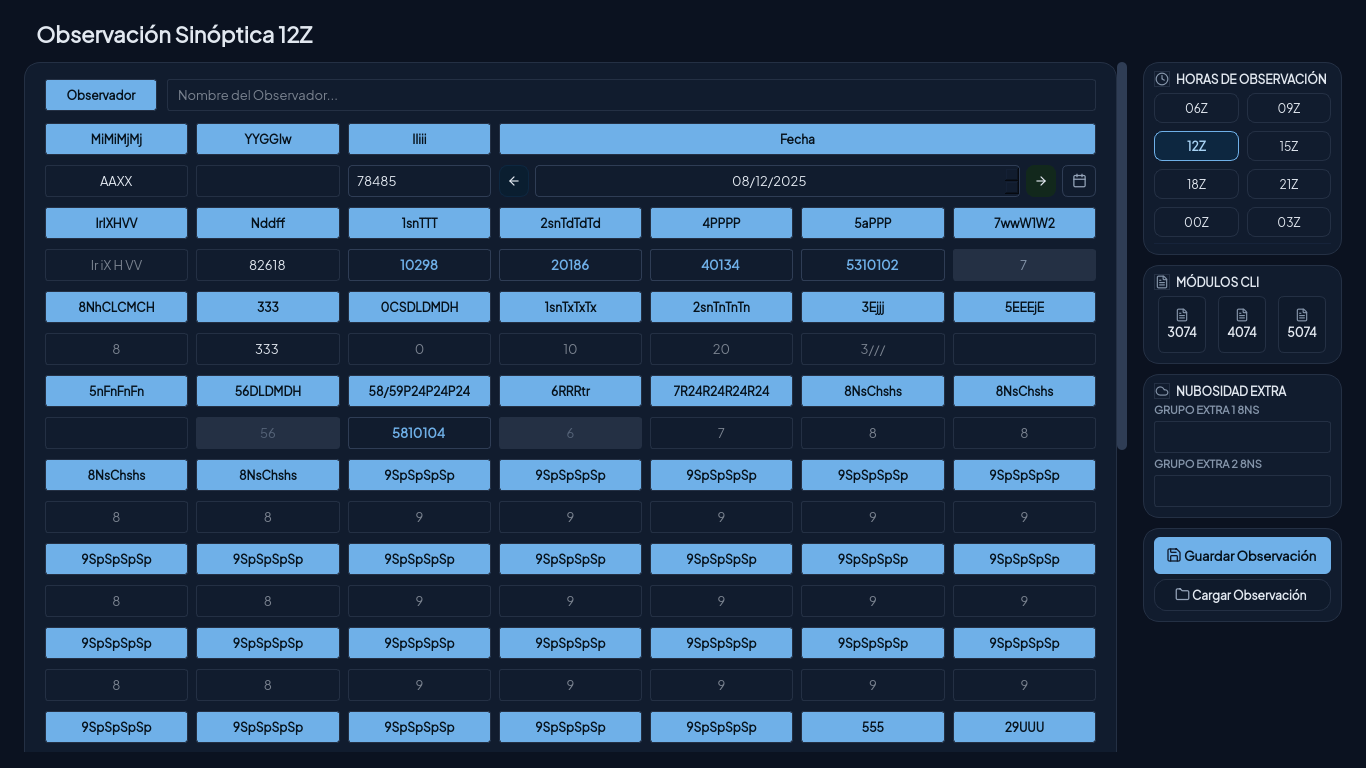
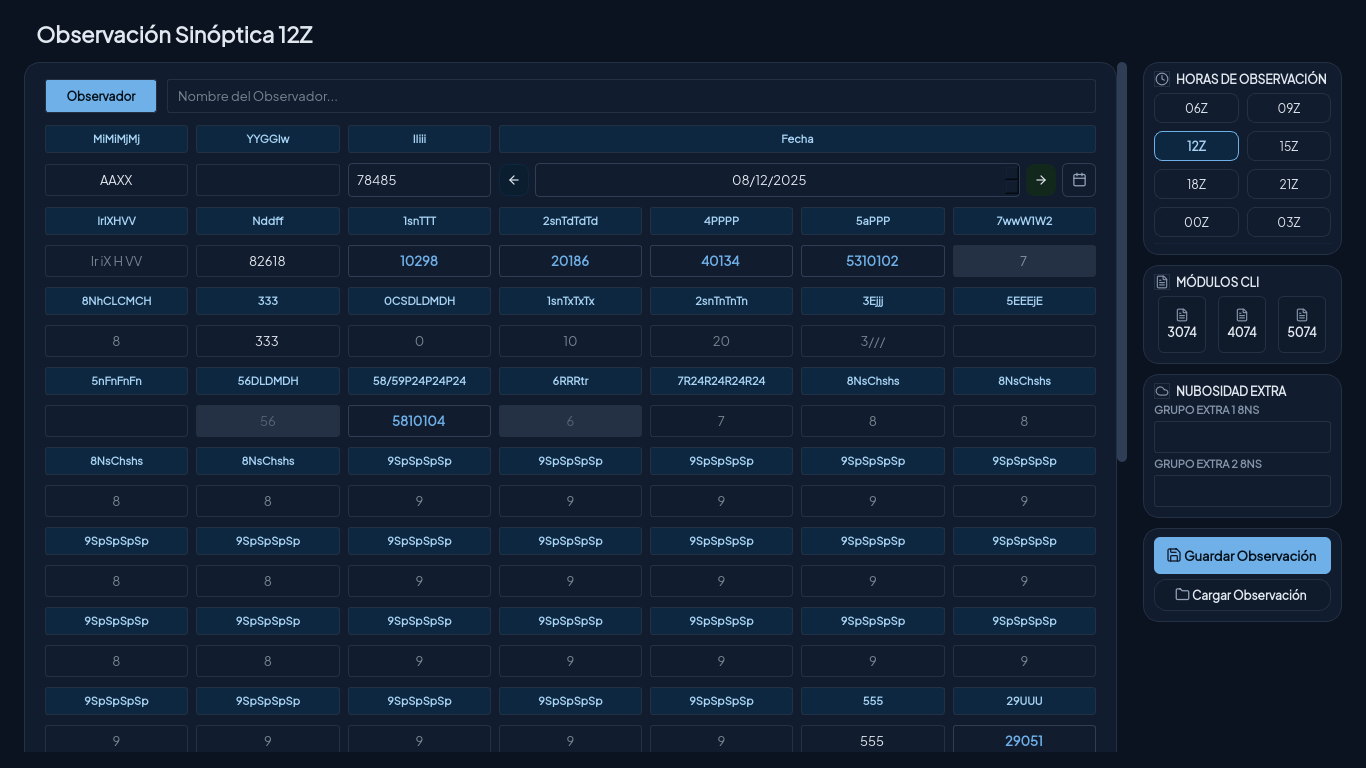
feat(synoptic): jerarquía de dos niveles y campos de 34 px
Aplicar la línea gráfica al Sinóptico no era sólo el color: faltaba jerarquía.
Catorce barras sólidas idénticas competían entre sí y con el botón de guardar.

- **Encabezado primario** (`Observador`, `Fecha`): sólido, `$acento` con
  `$sobre_acento`. Es el que manda y marca dónde empieza el formulario.
- **Encabezado de grupo** (`MiMiMjMj`, `YYGGIw`…): `$acento_suave` con
  `$acento_texto` (9,62:1 en oscuro, 11,34:1 en claro). Segundo nivel, se lee
  y no grita.

Y el alto de campo se uniforma en **34 px** según §3.4 del documento: había
32 en observador, estación, fecha y el botón de calendario.

Radios y tipos ya seguían la escala (3 en campos, 6 en botones, 22/16/13/12/12/11).

Verificado en captura, claro y oscuro. 849 passed, EXIT=0, sin avisos de Qt.

diff --git a/oms_ui/pages/synoptic.py b/oms_ui/pages/synoptic.py
@@ -303,7 +303,13 @@ HOUR_ICONS: dict[str, str] = {
 }
 
 #: slate-600 header chips (oracle tableHeader slate bg; square corners).
+#: Encabezado de grupo: tinte de acento con texto fuerte. Es el segundo nivel.
 _HEADER_QSS = (
+    "background-color: $acento_suave; color: $acento_texto; font-weight: 700;"
+    "font-size: 11px; padding: 6px; border-radius: 3px;"
+)
+#: Encabezado primario (Observador, Fecha): sólido, es el que manda.
+_PRIMARY_HEADER_QSS = (
     "background-color: $acento; color: $sobre_acento; font-weight: 800;"
     "font-size: 12px; padding: 7px 6px; border-radius: 3px;"
 )
@@ -631,8 +637,9 @@ class SynopticPage(QWidget):
             f"background: transparent; color: {paleta['texto']};"
             "font-size: 22px; font-weight: 700;"
         ))
-        for chip in (self.observer_label, *self._primary_headers):
-            chip.setStyleSheet(_qss(_HEADER_QSS))
+        self.observer_label.setStyleSheet(_qss(_PRIMARY_HEADER_QSS))
+        for chip in self._primary_headers:
+            chip.setStyleSheet(_qss(_PRIMARY_HEADER_QSS))
         for hora in self.hour_buttons:
             self._style_hour_button(hora)
         self.save_btn.setStyleSheet(_qss(
@@ -662,10 +669,7 @@ class SynopticPage(QWidget):
             if accent is None:
                 label.setStyleSheet(_qss(_HEADER_QSS))
             else:
-                label.setStyleSheet(_qss(
-                    "background-color: $acento; color: $banda_texto;"
-                    "font-weight: 700; font-size: 12px; padding: 7px 6px;"
-                ))
+                label.setStyleSheet(_qss(_PRIMARY_HEADER_QSS))
                 self._primary_headers.append(label)
             grid.addWidget(label, row, col, 1, span)
             col += span
@@ -745,13 +749,13 @@ class SynopticPage(QWidget):
         meta_row = QHBoxLayout()
         meta_row.setSpacing(10)
         self.observer_label = QLabel("Observador")
-        self.observer_label.setStyleSheet(_qss(_HEADER_QSS))
+        self.observer_label.setStyleSheet(_qss(_PRIMARY_HEADER_QSS))
         self.observer_label.setMinimumWidth(112)
         self.observer_label.setAlignment(Qt.AlignmentFlag.AlignCenter)
         self.observer_edit = QLineEdit()
         self.observer_edit.setPlaceholderText("Nombre del Observador...")
         self.observer_edit.setStyleSheet(_qss(FIELD_QSS))
-        self.observer_edit.setMinimumHeight(32)
+        self.observer_edit.setMinimumHeight(34)
         self.observer_label.setBuddy(self.observer_edit)
         meta_row.addWidget(self.observer_label)
         meta_row.addWidget(self.observer_edit, 1)
@@ -787,7 +791,7 @@ class SynopticPage(QWidget):
                 "QComboBox::drop-down { border: none; width: 22px; }"
             )
         )
-        self.station_combo.setMinimumHeight(32)
+        self.station_combo.setMinimumHeight(34)
 
         self.fecha_edit = QDateEdit()
         self.fecha_edit.setDisplayFormat("dd/MM/yyyy")
@@ -797,7 +801,7 @@ class SynopticPage(QWidget):
             "QDateEdit { background-color: $superficie; border: 1px solid $borde_input;"
             "border-radius: 4px; padding: 4px 8px; color: $texto; }"
         ))
-        self.fecha_edit.setMinimumHeight(32)
+        self.fecha_edit.setMinimumHeight(34)
 
         # Elegir el día de entre las observaciones guardadas, como en la
         # Auditoría (estación -> año -> mes -> día), en vez de teclear una fecha
@@ -807,7 +811,7 @@ class SynopticPage(QWidget):
         self.date_picker_button.setIcon(lucide_icon("calendar", _qss("$suave"), 15))
         self.date_picker_button.setIconSize(QSize(15, 15))
         self.date_picker_button.setFixedWidth(34)
-        self.date_picker_button.setMinimumHeight(32)
+        self.date_picker_button.setMinimumHeight(34)
         self.date_picker_button.setCursor(Qt.CursorShape.PointingHandCursor)
         self.date_picker_button.setAccessibleName("Elegir día de las observaciones guardadas")
         self.date_picker_button.clicked.connect(lambda: self._open_observation_picker())
